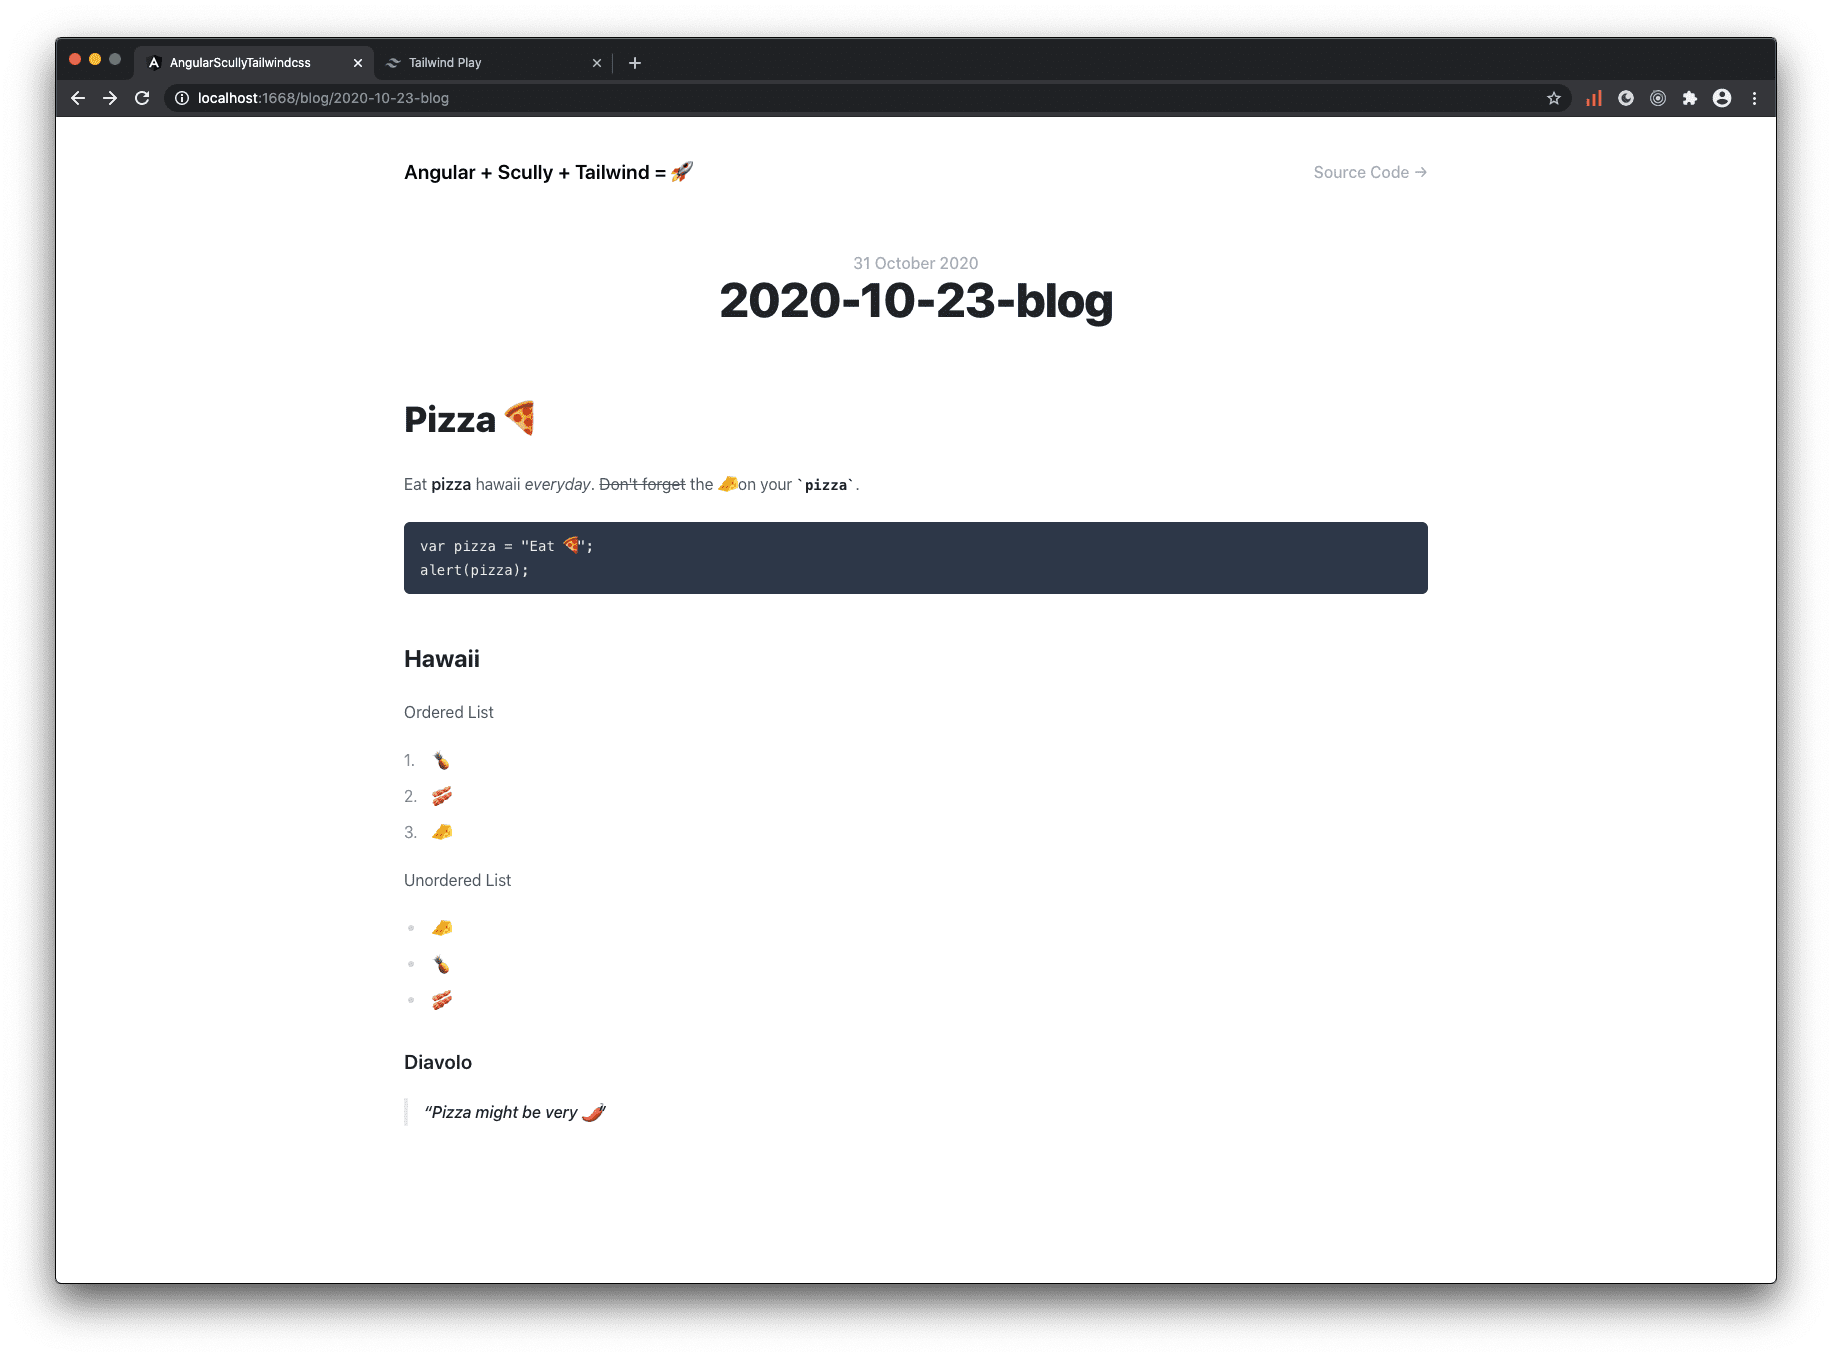
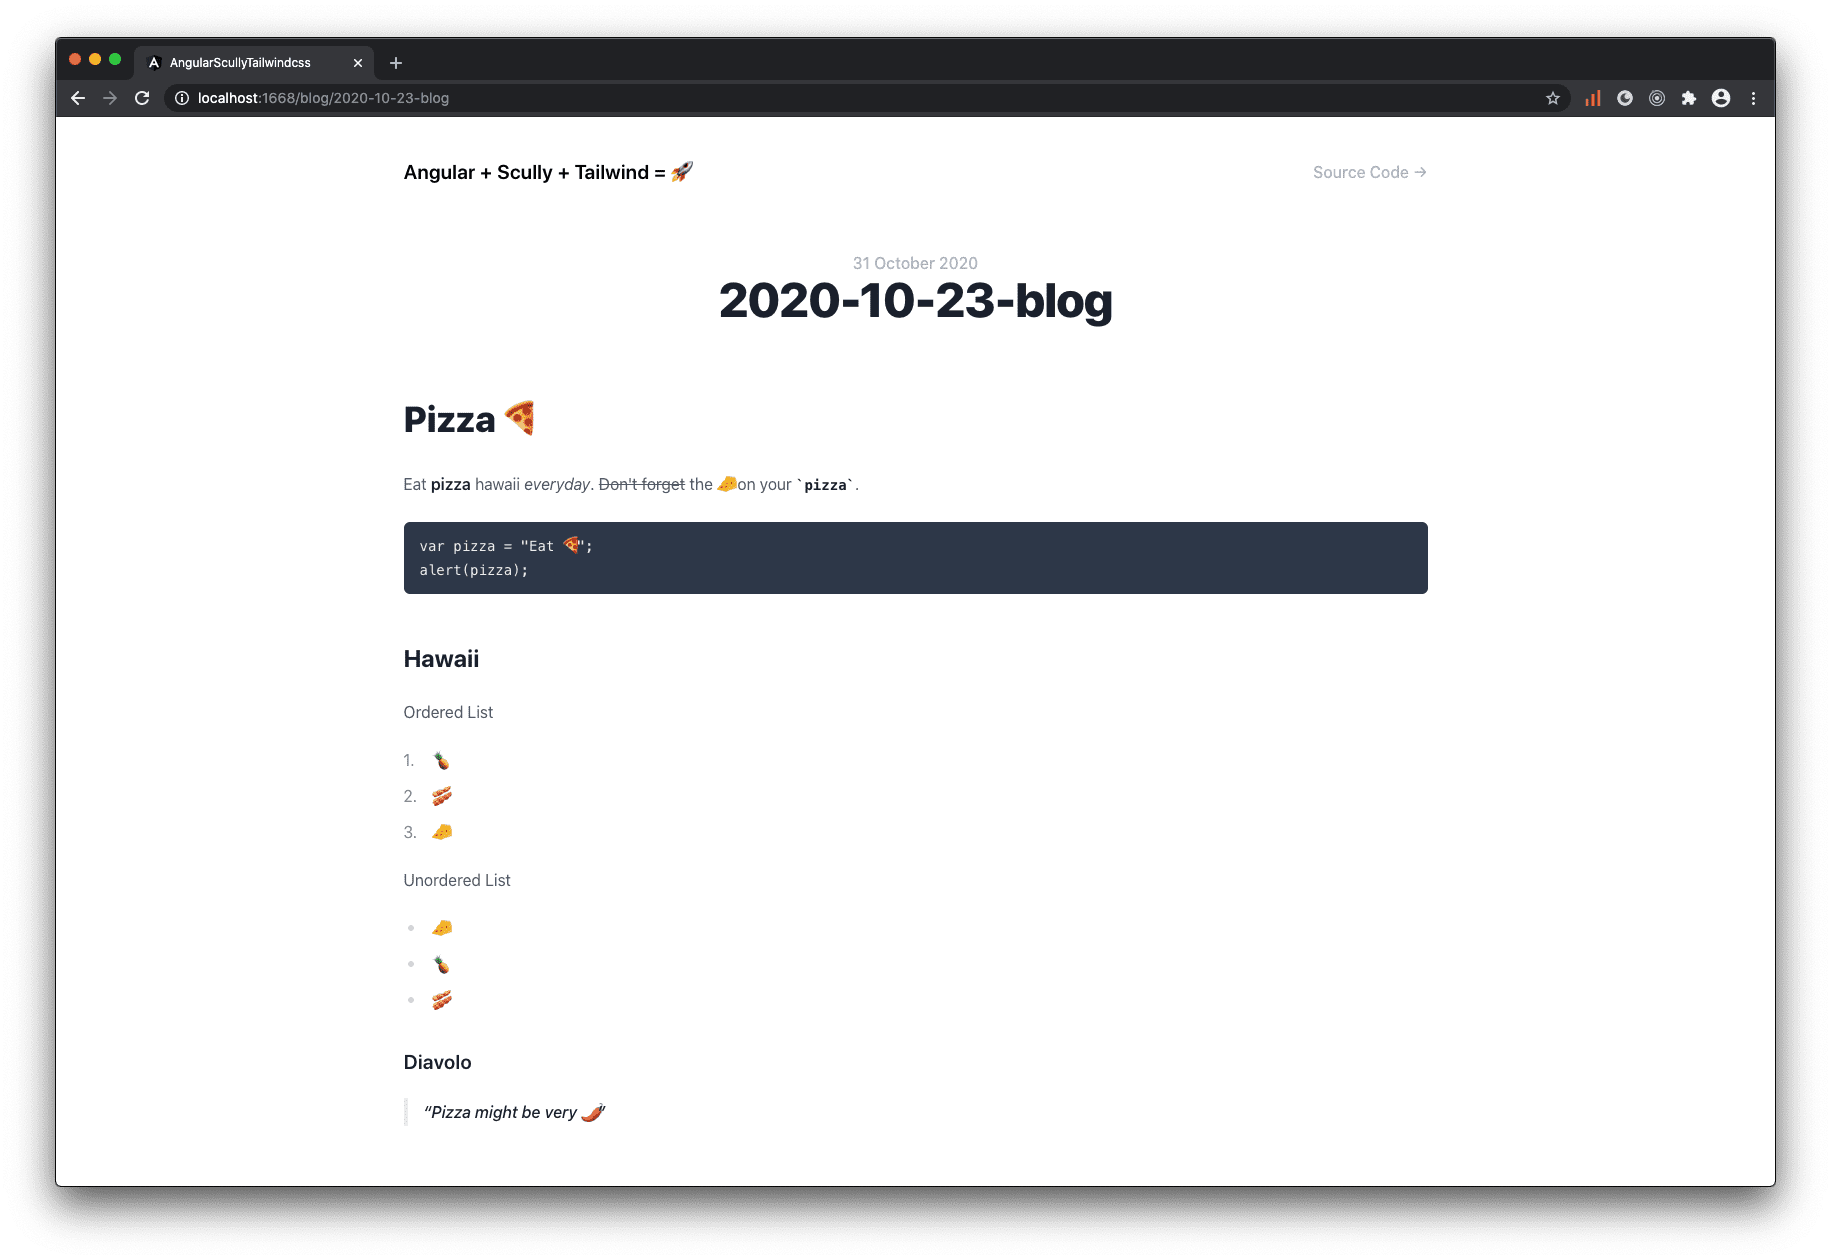
content: update images and dates

diff --git a/content/blog/jamstack-angular-scully-tailwind-css.md b/content/blog/jamstack-angular-scully-tailwind-css.md
@@ -2,8 +2,8 @@
 title: 'Jamstack: Angular + Scully + Tailwind CSS'
 description: Use Angular's static site generator Scully and style it with Tailwind CSS
 published: true
-publishedAt: 2020-10-23T15:27:00.000Z
-updatedAt: 2020-10-23T15:27:00.000Z
+publishedAt: 2020-10-27T10:23:00.000Z
+updatedAt: 2020-10-27T10:23:00.000Z
 tags:
   - Scully
   - Angular
@@ -125,6 +125,8 @@ src/assets/scully-routes.json
 scully/plugins/*.js
 scully/plugins/*.js.map
 ```
+
+`scully-routes.json` contains all information about your available routes including the front matter data which you will access later in your blog post page.
 
 ## Markdown blog
 
